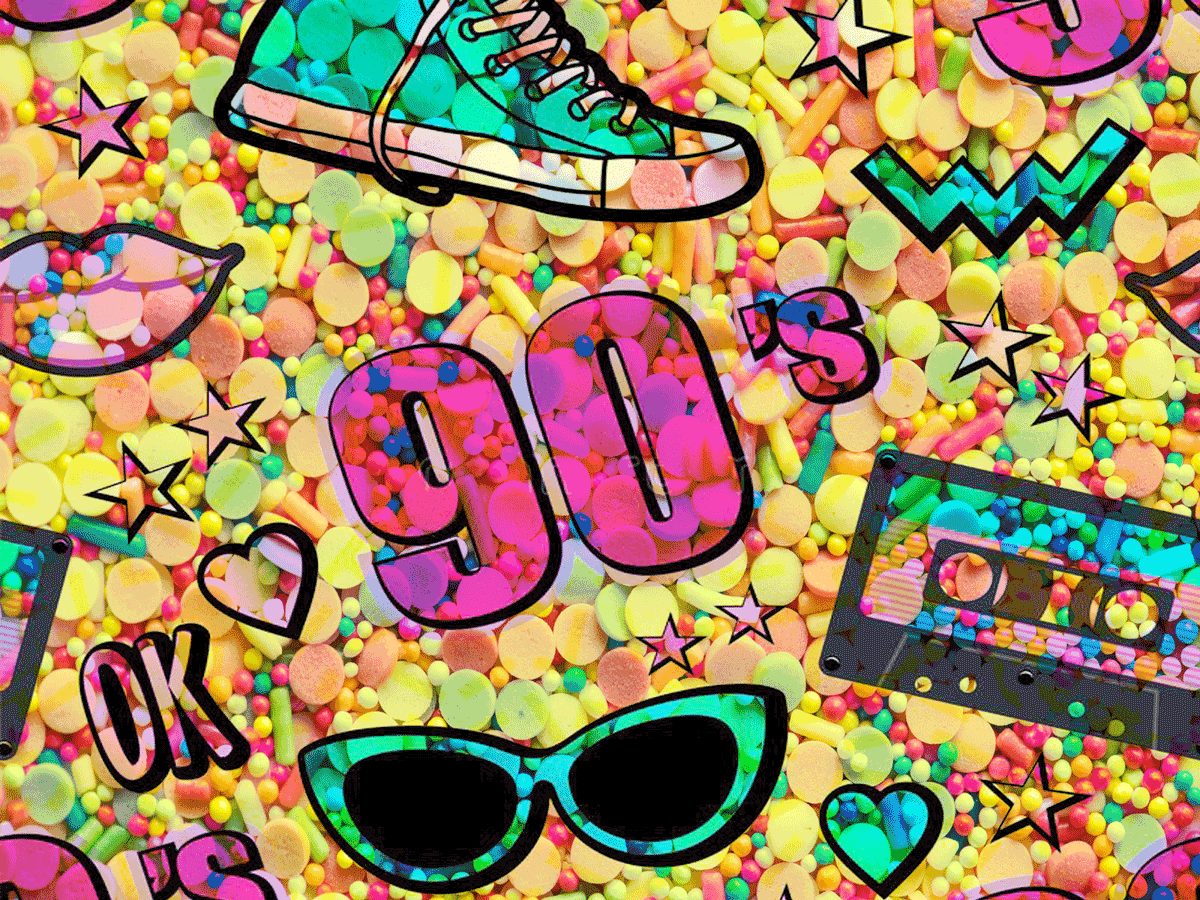
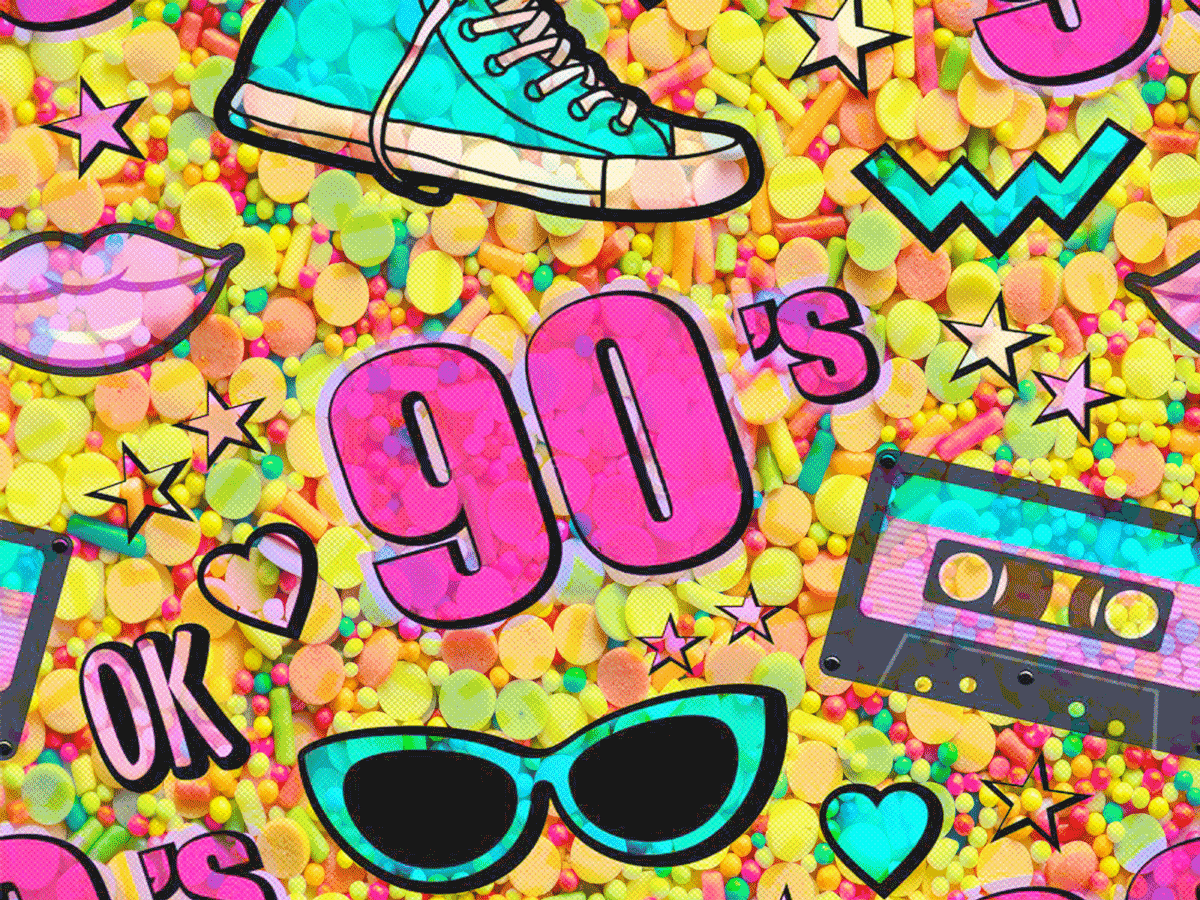
Edit theme page graphics and backgrounds

diff --git a/public/css/style.css b/public/css/style.css
@@ -163,19 +163,31 @@ h6 {
 }
  
 .theme-title-heading {
-    background-color: rgba(140, 34, 240, 0.559);
+    background-color: rgba(13, 110, 253, 0.30);
 }
 
 .theme-hero-1 {
-    background-color: #f9f641;
+    /* background-color: #f9f641; */
+    background-size: cover;
+    background-repeat: no-repeat;
+    background-position: center center;
+    background-image: url("../images/theme-background-01.png");
 }
 
 .theme-hero-2 {
-    background-color: #38d677;
+    /* background-color: #38d677; */
+    background-size: cover;
+    background-repeat: no-repeat;
+    background-position: center center;
+    background-image: url("../images/theme-background-02.png");
 }
 
 .theme-hero-3 {
-    background-color: #b24b4b;
+    /* background-color: #b24b4b; */
+    background-size: cover;
+    background-repeat: no-repeat;
+    background-position: center center;
+    background-image: url("../images/theme-background-03.png");
 }
 
 #text-responsive {
